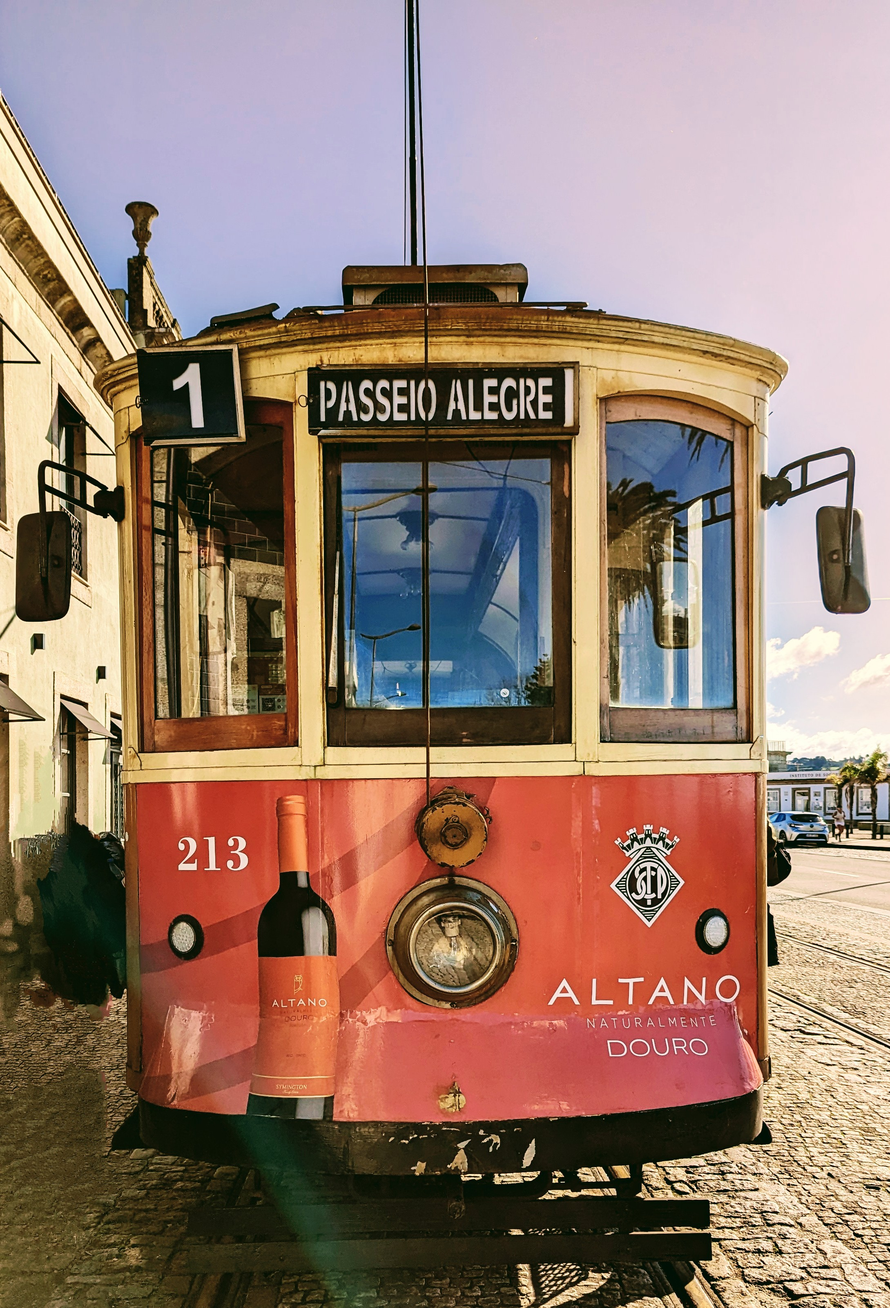
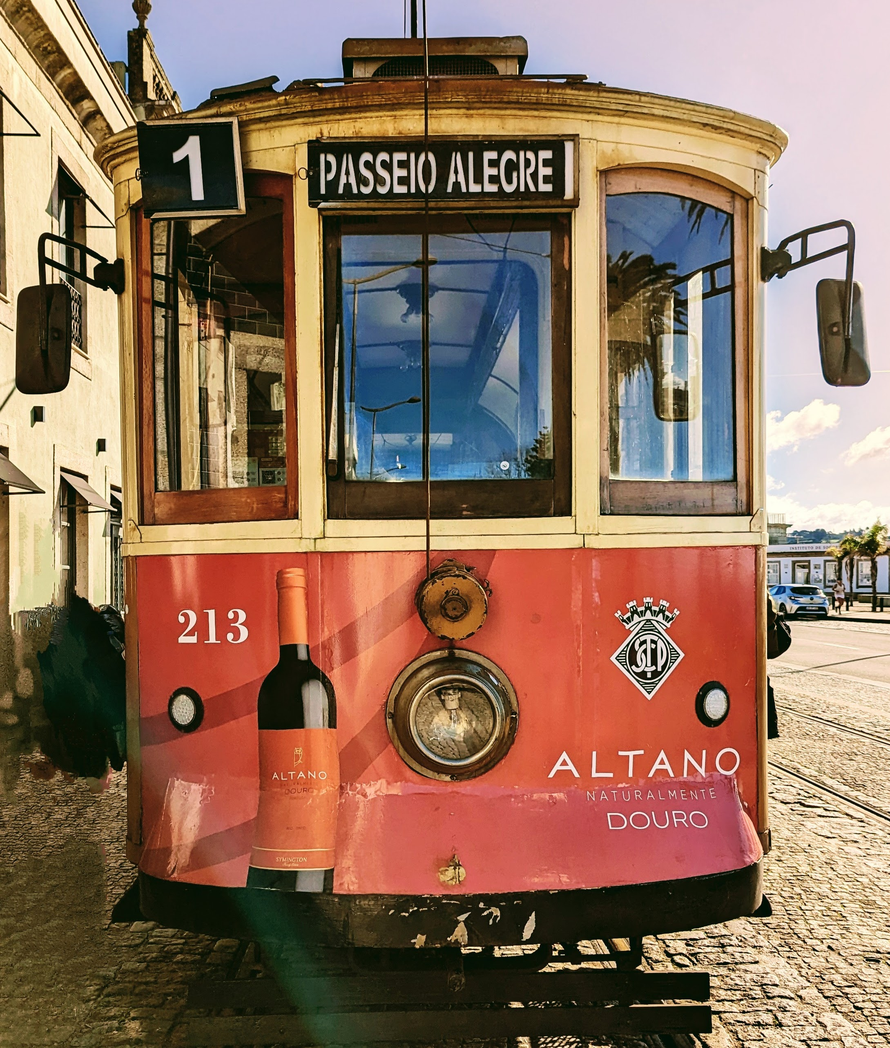
added CCC filter

diff --git a/src/styles.css b/src/styles.css
@@ -29,6 +29,7 @@ h3 {
 img {
   width: 100%;
   display: block;
+  filter: brightness(110%) contrast(115%);
 }
 
 .grid-3-columns {
@@ -92,6 +93,10 @@ section {
 
 .secondary {
   background: #f8f8f8;
+}
+
+section h4,
+h2 {
   text-align: center;
 }
 
